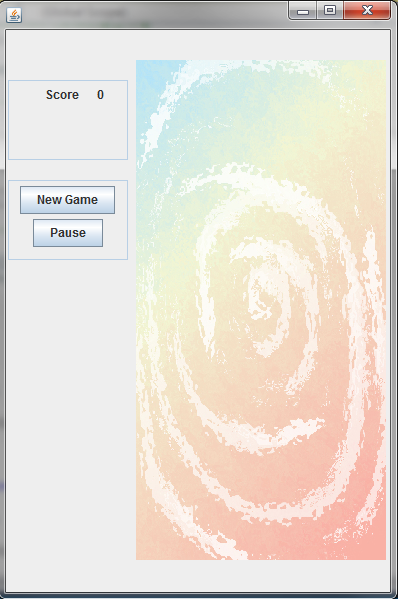
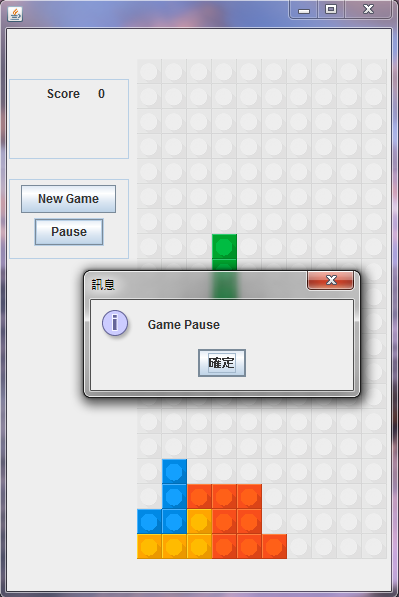
update document
update document

diff --git a/README.MD b/README.MD
@@ -1,0 +1,11 @@
+## 俄羅斯方塊 Tetris
+
+### 功能
+1. "New Game"
+2. "Pause"
+3. "Score"
+2. 有七種形狀的積木
+
+### 遊戲畫面
+![game](1.png "game")
+![game2](2.png "game2")
